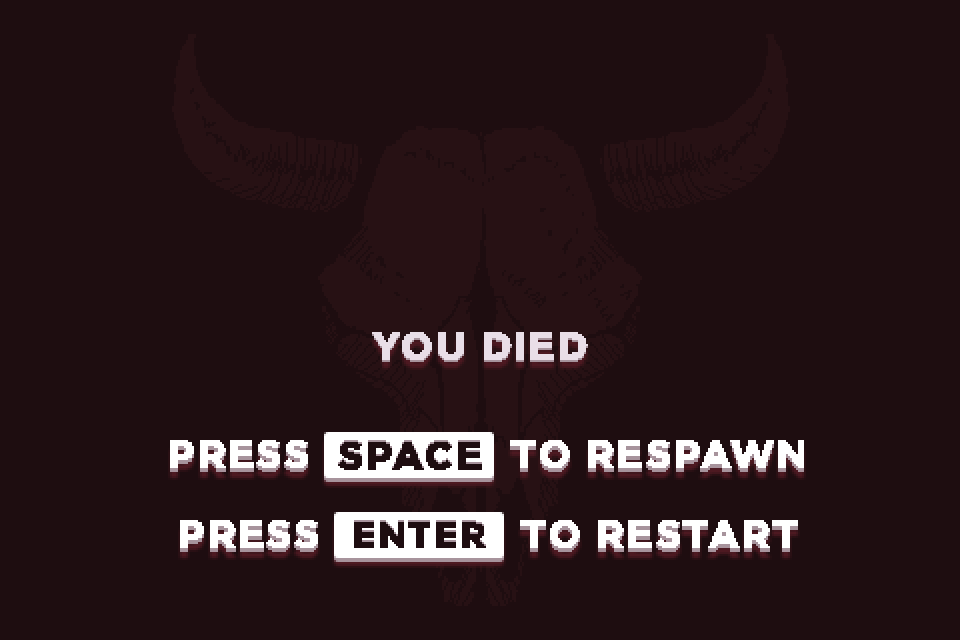
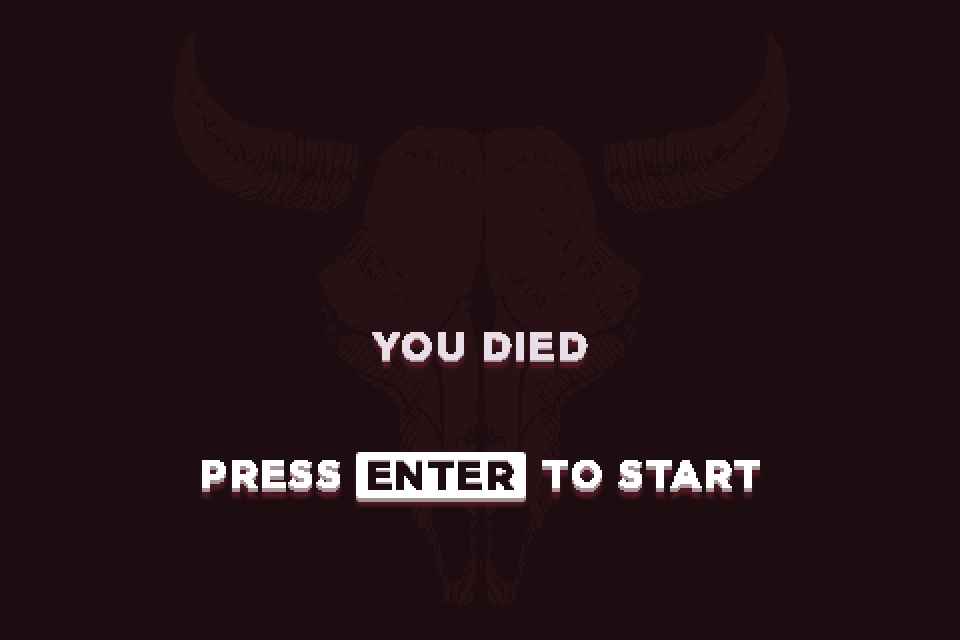
end screen and some other shit

Changed region(s): [[0.1562, 0.6562, 0.8438, 0.9062]]

diff --git a/src/GameOverScreen.js b/src/GameOverScreen.js
@@ -32,13 +32,15 @@ var GameOverScreen = me.ScreenObject.extend({
 		}
 
 		this.subscription = me.event.subscribe( me.event.KEYDOWN, function (action, keyCode, edge) {
-			if( keyCode === me.input.KEY.SPACE ) {
+			if( keyCode === me.input.KEY.ENTER ) {
 				me.state.change( me.state.PLAY );
 			}
+			/*
 			if( keyCode === me.input.KEY.ENTER ) {
 				globalSettings.level = "level1";
 				me.state.change( me.state.MENU);
 			}
+			*/
 		});
 		me.game.viewport.fadeOut( '#000000', 1000, function() {});
 	},
